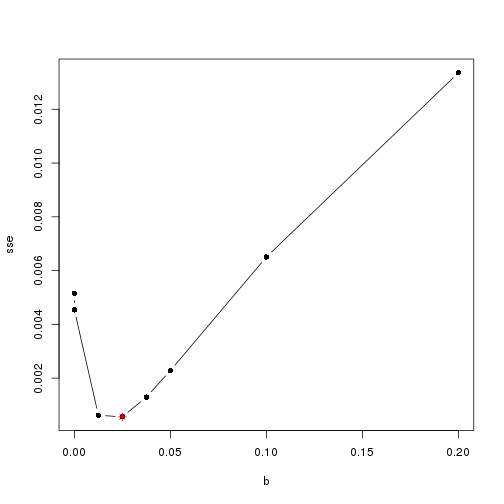
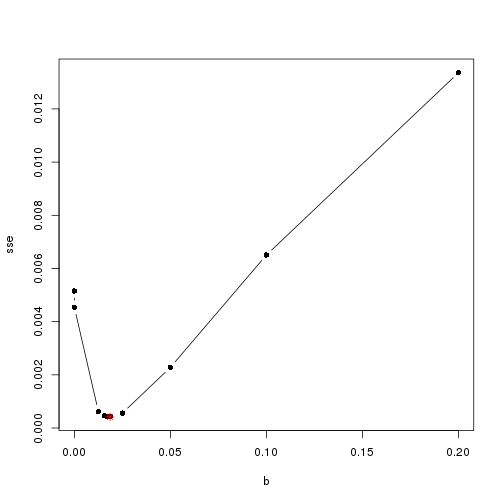
update

diff --git a/vignettes/overdispersion.md b/vignettes/overdispersion.md
@@ -170,10 +170,10 @@ list(
   sse = optimized_overdispersion_details[["sse"]]
 )
 #> $b
-#> [1] 0.025
+#> [1] 0.01855469
 #> 
 #> $sse
-#> [1] 0.0005600451
+#> [1] 0.0004221577
 ```
 
 Plot the parameter search space
